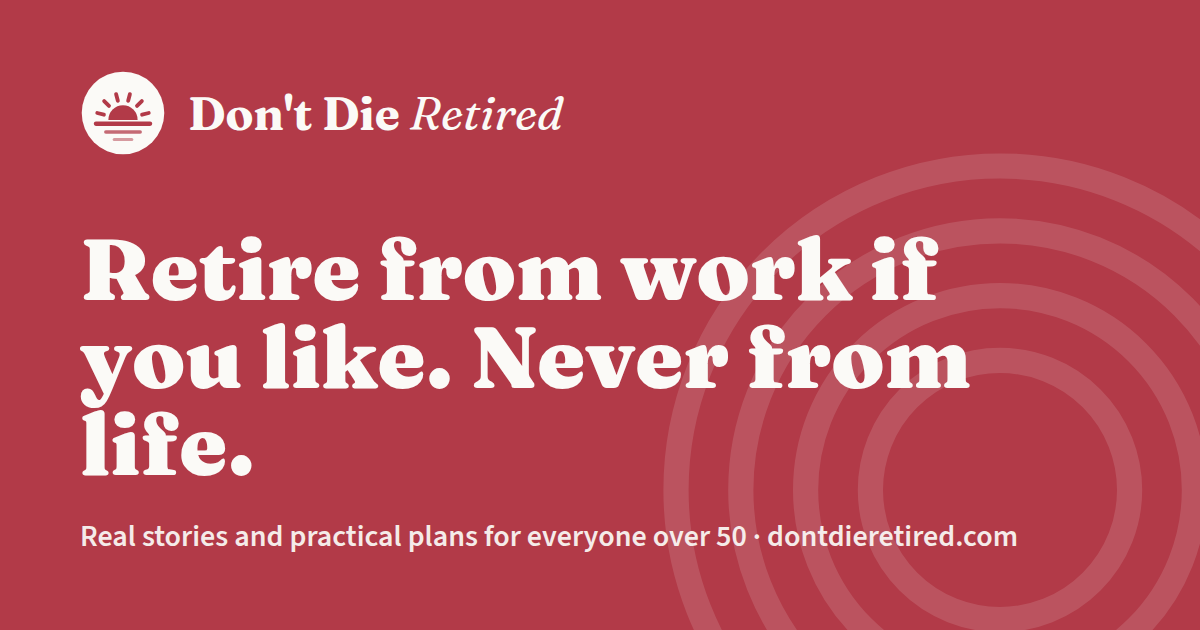
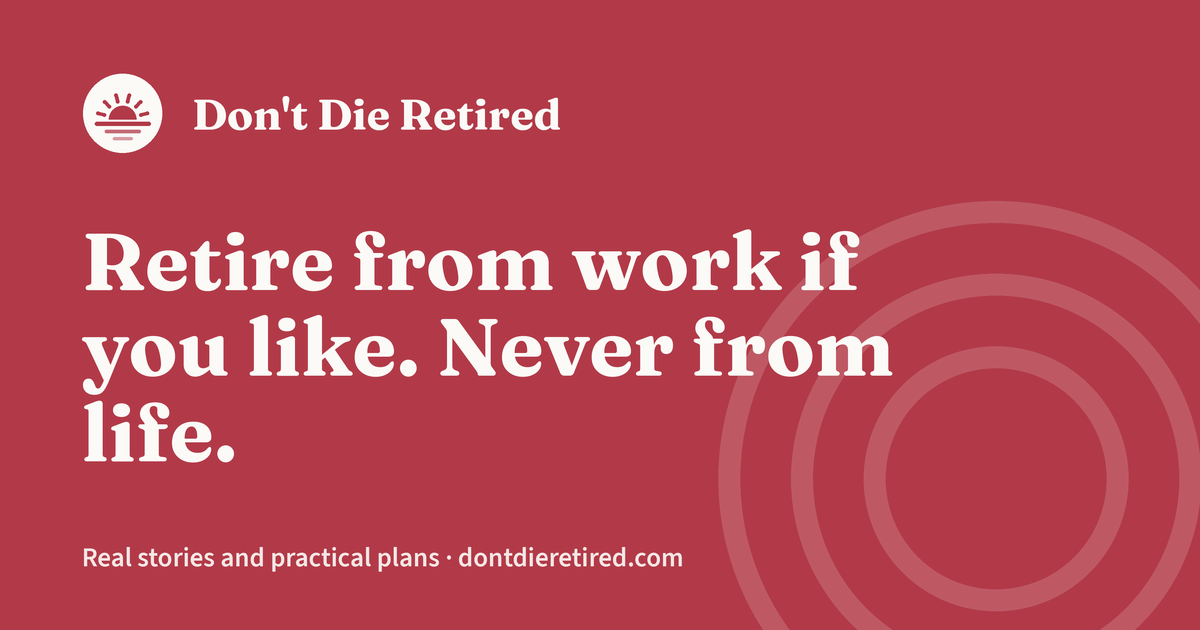
Wordmark: Don't Die Retired in one format, shown in the header at every screen size; About: add Our ethos
- Header, footer and app header: one style for all three words; name no longer hidden on phones
- Phone header becomes two rows so the name, email button and menu all fit
- Logo files and default share image rebuilt in one style (tools/build_logos.py)
- Product PDF renderer follows the same rule for the next rebuild
- About: Our ethos section with a small footer link
- Runbook 1c: name and wordmark rule; footer no longer overflows on small phones

Claude-Session: https://claude.ai/code/session_01Y58vKLSWoeryauwknqvsAi

Changed region(s): [[0.0617, 0.2413, 1.0, 1.0], [0.1542, 0.1508, 0.4933, 0.2111], [0.0617, 0.1508, 0.1233, 0.2413]]

diff --git a/templates/about.html b/templates/about.html
@@ -6,11 +6,20 @@
 <p>Somewhere along the way "retirement" stopped meaning leaving a job and started meaning leaving life: slowing down, doing less, expecting less. We think that's exactly backwards. The years ahead come with more freedom and more time than most of us have had since our twenties. That is not the moment to resign. It is the moment to make the most of it.</p>
 <p>This applies just as much — more, honestly — if you have never been physically or mentally active. You do not need a sporty past or a string of qualifications. You need a first step. The people we write about prove it every day: the swimmer who started at 68, the powerlifter at 62, the doctorate at 80, the surfboard finally ridden at 60.</p>
 <p><strong>Don't Die Retired</strong> finds real stories of people who started late and went far, tells them accurately with links to the original reporting, and turns each one into something small you can try this week.</p>
+<h2 id="ethos">Our ethos</h2>
+<p>Don't Die Retired is one thought: don't spend the years after work doing less. Retirement is leaving a job, not leaving life. Don't retire from life. This is the time to make the most of it.</p>
+<p>Four things we hold to:</p>
+<ul>
+<li><strong>Interested, not old.</strong> Our readers are defined by curiosity and appetite, not by a birthday. We lead with what is interesting, and nobody is too young to be here.</li>
+<li><strong>Do, don't just read.</strong> Every story comes with a way to try it yourself, whether you are starting from nothing or already active and looking for a stretch.</li>
+<li><strong>Invitation, never instruction.</strong> We encourage. We never assume anyone is unfit or in decline, and we never treat activity as a duty.</li>
+<li><strong>Honest and sourced.</strong> Real people, named and linked sources, and evidence behind the advice. We say plainly how the site earns its money, and that it is researched and written with the help of AI, overseen by its human founders.</li>
+</ul>
+<p><strong>What this site is:</strong> real stories told accurately, practical plans and guides that turn each one into something you can start this week, and tools to help you keep going.</p>
+<p><strong>What it is not:</strong> a longevity, life-extension, anti-ageing or medical programme. We sell no supplements, tests or treatments. We are not doctors and nothing here is medical advice: talk to a health professional before starting a new exercise programme, then ask them what you <em>can</em> do.</p>
 <h2>How the site is run</h2>
 <p>This site is researched, written and updated every day with the help of AI, overseen by its human founders. Every story is drawn from a named, linked news source and we quote only what those sources report. If we get something wrong, <a href="mailto:{{ cfg.site.contact_email }}">tell us</a> and we'll fix it quickly.</p>
 <h2>How we make money</h2>
 <p>Advertising, affiliate links (clearly disclosed), our own paid guides and challenges, a members' circle, and occasional clearly-labelled sponsored content. That mix keeps the daily stories free for everyone.</p>
-<h2>What we are not</h2>
-<p>We are not doctors. Nothing here is medical advice. Talk to a health professional before starting a new exercise programme — then ask them what you <em>can</em> do.</p>
 </div>
 {% endblock %}

diff --git a/templates/base.html b/templates/base.html
@@ -31,7 +31,7 @@
 <a class="skip" href="#main">Skip to content</a>
 <header class="site-header">
   <div class="wrap header-inner">
-    <a class="brand" href="/" aria-label="Don't Die Retired — home"><svg class="brand-mark" aria-hidden="true" width="34" height="34" xmlns="http://www.w3.org/2000/svg" viewBox="0 0 100 100"><circle cx="50" cy="50" r="48" fill="#B23A48"/><clipPath id="hdr"><rect width="100" height="58"/></clipPath><circle cx="50" cy="58" r="17" fill="#FBFAF7" clip-path="url(#hdr)"/><g stroke="#FBFAF7" stroke-width="4.5" stroke-linecap="round"><line x1="27.8" y1="52.0" x2="20.1" y2="50.0"/><line x1="33.7" y1="41.7" x2="28.1" y2="36.1"/><line x1="44.0" y1="35.8" x2="42.0" y2="28.1"/><line x1="56.0" y1="35.8" x2="58.0" y2="28.1"/><line x1="66.3" y1="41.7" x2="71.9" y2="36.1"/><line x1="72.2" y1="52.0" x2="79.9" y2="50.0"/></g><rect x="16" y="60" width="68" height="5" rx="2.5" fill="#FBFAF7"/><rect x="28" y="70" width="44" height="4" rx="2" fill="#FBFAF7" opacity=".75"/><rect x="38" y="79" width="24" height="3.5" rx="1.75" fill="#FBFAF7" opacity=".5"/></svg><span>Don't Die <em>Retired</em></span></a>
+    <a class="brand" href="/" aria-label="Don't Die Retired — home"><svg class="brand-mark" aria-hidden="true" width="34" height="34" xmlns="http://www.w3.org/2000/svg" viewBox="0 0 100 100"><circle cx="50" cy="50" r="48" fill="#B23A48"/><clipPath id="hdr"><rect width="100" height="58"/></clipPath><circle cx="50" cy="58" r="17" fill="#FBFAF7" clip-path="url(#hdr)"/><g stroke="#FBFAF7" stroke-width="4.5" stroke-linecap="round"><line x1="27.8" y1="52.0" x2="20.1" y2="50.0"/><line x1="33.7" y1="41.7" x2="28.1" y2="36.1"/><line x1="44.0" y1="35.8" x2="42.0" y2="28.1"/><line x1="56.0" y1="35.8" x2="58.0" y2="28.1"/><line x1="66.3" y1="41.7" x2="71.9" y2="36.1"/><line x1="72.2" y1="52.0" x2="79.9" y2="50.0"/></g><rect x="16" y="60" width="68" height="5" rx="2.5" fill="#FBFAF7"/><rect x="28" y="70" width="44" height="4" rx="2" fill="#FBFAF7" opacity=".75"/><rect x="38" y="79" width="24" height="3.5" rx="1.75" fill="#FBFAF7" opacity=".5"/></svg><span class="brand-name">Don't Die Retired</span></a>
     <nav class="nav" aria-label="Main">
       <details class="topics">
         <summary>Topics</summary>
@@ -72,7 +72,7 @@
 <footer class="site-footer">
   <div class="wrap footer-grid">
     <div>
-      <p class="brand-foot"><img src="/static/logo-mark.svg" alt="" width="30" height="30"> Don't Die <em>Retired</em></p>
+      <p class="brand-foot"><img src="/static/logo-mark.svg" alt="" width="30" height="30"> <span class="brand-name">Don't Die Retired</span></p>
       <p>{{ cfg.site.tagline }}</p>
       <p class="social">
         {% for k, v in cfg.social.items() if k != 'scheduler' and v %}<a href="{{ v }}" rel="me noopener" target="_blank">{{ k|capitalize }}</a>{% endfor %}
@@ -94,6 +94,7 @@
     <div>
       <h4>About</h4>
       <a href="/about/">About &amp; how this site is run</a>
+      <a href="/about/#ethos">Our ethos</a>
       <a href="/privacy/">Privacy &amp; cookies</a>
       <a href="mailto:{{ cfg.site.contact_email }}">Contact</a>
       <button class="linklike" data-open-segments>Change my profile</button>

diff --git a/products/build_pdf.js b/products/build_pdf.js
@@ -114,7 +114,7 @@ h1{font-family:Fr;font-weight:900;font-size:58pt;line-height:.98;margin:8mm 0 7m
 <svg class="sun" viewBox="0 0 210 120" preserveAspectRatio="xMidYMax meet"><g stroke="#F2B45A" stroke-opacity=".38" stroke-width="4.2" stroke-linecap="round">${[150, 122, 94, 66, 38, 12].map(a => { const t = a * Math.PI / 180, cx = 164, cy = 126, r1 = 62, r2 = 86;
   return `<line x1="${(cx + r1 * Math.cos(t)).toFixed(1)}" y1="${(cy - r1 * Math.sin(t)).toFixed(1)}" x2="${(cx + r2 * Math.cos(t)).toFixed(1)}" y2="${(cy - r2 * Math.sin(t)).toFixed(1)}"/>`; }).join('')}</g><circle cx="164" cy="126" r="54" fill="#FFFDF9" fill-opacity=".12"/><circle cx="164" cy="126" r="50" fill="#F2B45A"/></svg>
 <div class="big">${esc(T.big)}</div>
-<div class="brand">${MARK('#FFFDF9', T.c)}<span>Don't Die <i>Retired</i></span></div>
+<div class="brand">${MARK('#FFFDF9', T.c)}<span>Don't Die Retired</span></div>
 <div class="pill">${esc(C.kind)}</div>
 <h1>${esc(C.title)}</h1>
 <div class="sub">${esc(C.subtitle)}</div>
@@ -226,7 +226,7 @@ ${bodyHtml}
   ${MY ? `<div class="upgrade"><div class="up-l"><div class="kick" style="color:var(--acc)">Your purchase counts in full</div><h3 class="up-h">Get the other eight plans for £${MY.upgrade}</h3><p>You've paid £${MY.paid} for this plan. We take that off the Everything bundle, so the rest of the shelf, worth £${MY.others_value} bought separately, is yours for <b>£${MY.upgrade}</b>. You'll also get every new plan we publish for a year.</p><p class="up-small">Bought more than one plan? Reply to your receipt and we'll credit everything you've paid.</p></div><a class="up-r" href="${MY.url}"><div class="up-price">£${MY.upgrade}</div><div class="up-was">instead of £${UP.bundle_price}</div><div class="up-link">${esc(MY.url.replace('https://', ''))}</div><div class="up-code">or use code <b>${MY.code}</b></div></a></div>` : ''}
   <div class="kick" style="margin-top:8mm">More from the shelf</div>
   <div class="shelf">${OTHERS.filter(o => o[0] !== C.title).slice(0, 6).map(o => `<div><b>${esc(o[0])}</b><span>${esc(o[1])}</span></div>`).join('')}</div>
-  <div class="sign">${MARK(T.c, '#FFFDF9')}<div><b>Don't Die <i>Retired</i></b><span>Retire from work if you like. Never from life. · dontdieretired.com · hello@dontdieretired.com</span></div></div>
+  <div class="sign">${MARK(T.c, '#FFFDF9')}<div><b>Don't Die Retired</b><span>Retire from work if you like. Never from life. · dontdieretired.com · hello@dontdieretired.com</span></div></div>
 </section>
 </body></html>`;
 

diff --git a/static/style.css b/static/style.css
@@ -122,7 +122,7 @@ em{color:var(--brand)}
 .brand-foot{font-family:var(--serif);font-weight:700;font-size:1.3rem;margin:0}
 .social a{display:inline-block;margin-right:12px}
 .footnote{margin-top:28px;color:var(--muted);font-size:.8rem}
-@media (max-width:820px){.footer-grid{grid-template-columns:1fr 1fr}}
+@media (max-width:820px){.footer-grid{grid-template-columns:1fr 1fr}.footer-grid>div{min-width:0}.footer-grid>div:first-child{grid-column:1/-1}}
 
 /* videos */
 .video-grid{display:grid;gap:24px}.video-grid-2{grid-template-columns:repeat(2,1fr)}
@@ -202,10 +202,21 @@ body[data-region=us] .tier .price::after{content:""}
 @media (max-width:820px){
   .nav{display:flex!important;gap:14px;flex:1;justify-content:flex-end}
   .hide-sm{display:none!important}.show-sm{display:inline}
-  .brand span{font-size:1.1rem}
+  .brand{font-size:1.15rem}
   .topics .dd{position:fixed;left:12px;right:12px;top:70px;width:auto;grid-template-columns:1fr}
 }
-@media (max-width:480px){.brand span{display:none}}
+/* The name is always shown beside the mark, in one style (RUNBOOK §1c). On phones the header
+   becomes two rows (name and email button, then the menu) so nothing has to be hidden. */
+.brand-name{white-space:nowrap;font-style:normal;color:inherit}
+@media (max-width:560px){
+  .header-inner{flex-wrap:wrap;gap:4px 10px;min-height:0;padding-top:9px;padding-bottom:5px}
+  .brand{font-size:clamp(16px,5vw,21px);gap:7px}
+  .brand-mark{width:28px;height:28px}
+  .header-cta{margin-left:auto;gap:8px}
+  .header-cta .btn{padding:5px 10px}
+  .nav{order:3;flex:1 0 100%!important;justify-content:flex-start!important;gap:20px}
+  .topics .dd{top:98px}
+}
 
 .bundle-value{font-size:1.05rem}.bundle-value s{color:var(--muted)}
 .bundle-promise{background:#fff6e8;border-radius:10px;padding:10px 14px}

diff --git a/app/index.html b/app/index.html
@@ -18,7 +18,7 @@
 <header class="bar">
   <a href="#/" class="brand" aria-label="Today">
     <svg viewBox="0 0 100 100" width="30" height="30" aria-hidden="true"><circle cx="50" cy="50" r="48" fill="#B23A48"/><clipPath id="c"><rect width="100" height="58"/></clipPath><circle cx="50" cy="58" r="17" fill="#FBFAF7" clip-path="url(#c)"/><g stroke="#FBFAF7" stroke-width="4.5" stroke-linecap="round"><line x1="27.8" y1="52" x2="20.1" y2="50"/><line x1="33.7" y1="41.7" x2="28.1" y2="36.1"/><line x1="44" y1="35.8" x2="42" y2="28.1"/><line x1="56" y1="35.8" x2="58" y2="28.1"/><line x1="66.3" y1="41.7" x2="71.9" y2="36.1"/><line x1="72.2" y1="52" x2="79.9" y2="50"/></g><rect x="16" y="60" width="68" height="5" rx="2.5" fill="#FBFAF7"/><rect x="28" y="70" width="44" height="4" rx="2" fill="#FBFAF7" opacity=".75"/><rect x="38" y="79" width="24" height="3.5" rx="1.75" fill="#FBFAF7" opacity=".5"/></svg>
-    <span>Don't Die <em>Retired</em></span>
+    <span class="brand-name">Don't Die Retired</span>
   </a>
   <button class="textsize" data-action="textsize" aria-label="Change text size">A<span>A</span></button>
 </header>

diff --git a/app/app.css b/app/app.css
@@ -15,7 +15,8 @@ em{color:var(--brand)}
 a{color:inherit}
 button{font:inherit;color:inherit}
 .bar{position:sticky;top:0;z-index:10;display:flex;justify-content:space-between;align-items:center;padding:calc(10px + env(safe-area-inset-top)) 18px 10px;background:rgba(251,250,247,.94);backdrop-filter:blur(8px);border-bottom:1px solid var(--line)}
-.brand{display:flex;align-items:center;gap:9px;text-decoration:none;font-family:Fr;font-weight:700;font-size:.95em}
+.brand{display:flex;align-items:center;gap:9px;text-decoration:none;font-family:Fr;font-weight:700;font-size:clamp(16px,.95em,1.2em);min-width:0}
+.brand-name{white-space:nowrap;font-style:normal;color:inherit}
 .textsize{border:1.5px solid var(--line);background:#fff;border-radius:12px;min-width:52px;height:44px;font-family:Fr;font-weight:700;font-size:.8em}
 .textsize span{font-size:1.3em}
 main{max-width:640px;margin:0 auto;padding:18px 18px 30px;outline:none}

diff --git a/app/sw.js b/app/sw.js
@@ -1,5 +1,5 @@
 // Offline support: app shell cached; data refreshed when online.
-const V = 'ddr-app-v2';
+const V = 'ddr-app-v3';
 const SHELL = ['/app/', '/app/index.html', '/app/app.css', '/app/app.js', '/app/data.json', '/app/manifest.webmanifest', '/app/icons/icon-192.png', '/static/favicon.svg',
   '/app/fonts/fraunces-latin-700-normal.woff2', '/app/fonts/fraunces-latin-900-normal.woff2', '/app/fonts/fraunces-latin-400-italic.woff2',
   '/app/fonts/source-sans-3-latin-400-normal.woff2', '/app/fonts/source-sans-3-latin-600-normal.woff2', '/app/fonts/source-sans-3-latin-700-normal.woff2'];

diff --git a/tools/build_logos.py b/tools/build_logos.py
@@ -1,0 +1,105 @@
+#!/usr/bin/env python3
+"""Rebuild the brand files that carry the wordmark.
+
+    python tools/build_logos.py
+
+Writes brand/logo-horizontal-light.png, brand/logo-horizontal-dark.png,
+brand/og-default.png and static/og-default.png.
+
+The rule (RUNBOOK §1c): "Don't Die Retired" is one phrase in one style. All three
+words share the same typeface, weight, upright style and colour. The red lives in
+the sunrise mark, never on a word.
+"""
+from pathlib import Path
+from PIL import Image, ImageDraw, ImageFont
+
+ROOT = Path(__file__).resolve().parent.parent
+FONTS = ROOT / "brand" / "fonts"
+BOLD = str(FONTS / "Fraunces-Bold.ttf")
+SANS = str(FONTS / "SourceSans3-SemiBold.ttf")
+NAME = "Don't Die Retired"
+RED, PAPER, INK = "#B23A48", "#FBFAF7", "#1B1B1F"
+S = 3  # supersample
+
+
+def _blend(a, b, t):
+    a = [int(a[i:i + 2], 16) for i in (1, 3, 5)]
+    b = [int(b[i:i + 2], 16) for i in (1, 3, 5)]
+    return tuple(round(x + (y - x) * t) for x, y in zip(a, b))
+
+
+def draw_mark(d, x, y, size, disc=RED, fg=PAPER):
+    """The sunrise mark from brand/logo-mark.svg, drawn into a size x size box at (x, y)."""
+    u = size / 100
+    P = lambda px, py: (x + px * u, y + py * u)
+    d.ellipse([*P(2, 2), *P(98, 98)], fill=disc)
+    # half sun: full circle, then cover the lower half with the disc colour
+    d.ellipse([*P(33, 41), *P(67, 75)], fill=fg)
+    d.rectangle([*P(30, 58), *P(70, 77)], fill=disc)
+    rays = [(27.8, 52.0, 20.1, 50.0), (33.7, 41.7, 28.1, 36.1), (44.0, 35.8, 42.0, 28.1),
+            (56.0, 35.8, 58.0, 28.1), (66.3, 41.7, 71.9, 36.1), (72.2, 52.0, 79.9, 50.0)]
+    w = 4.5 * u
+    for x1, y1, x2, y2 in rays:
+        d.line([P(x1, y1), P(x2, y2)], fill=fg, width=round(w))
+        for px, py in ((x1, y1), (x2, y2)):
+            cx, cy = P(px, py)
+            d.ellipse([cx - w / 2, cy - w / 2, cx + w / 2, cy + w / 2], fill=fg)
+    d.rounded_rectangle([*P(16, 60), *P(84, 65)], radius=2.5 * u, fill=fg)
+    d.rounded_rectangle([*P(28, 70), *P(72, 74)], radius=2 * u, fill=_blend(disc, fg, .75))
+    d.rounded_rectangle([*P(38, 79), *P(62, 82.5)], radius=1.75 * u, fill=_blend(disc, fg, .5))
+
+
+def horizontal(out, bg, ink, size=(1400, 360)):
+    W, H = size[0] * S, size[1] * S
+    im = Image.new("RGB", (W, H), bg)
+    d = ImageDraw.Draw(im)
+    mark = round(H * 0.60)
+    gap = round(H * 0.15)
+    # largest type that keeps the whole name on one line inside the margins
+    margin = round(H * 0.235)
+    pt = round(H * 0.42)
+    while True:
+        f = ImageFont.truetype(BOLD, pt)
+        l, t, r, b = d.textbbox((0, 0), NAME, font=f)
+        if mark + gap + (r - l) <= W - 2 * margin:
+            break
+        pt -= 2
+    total = mark + gap + (r - l)
+    x0 = (W - total) // 2
+    draw_mark(d, x0, (H - mark) // 2, mark)
+    d.text((x0 + mark + gap - l, (H - (b - t)) // 2 - t), NAME, font=f, fill=ink)
+    im.resize(size, Image.LANCZOS).save(out, optimize=True)
+
+
+def og(out, size=(1200, 630)):
+    W, H = size[0] * S, size[1] * S
+    im = Image.new("RGB", (W, H), RED)
+    d = ImageDraw.Draw(im)
+    # quiet rings, lower right
+    cx, cy = round(W * 0.83), round(H * 0.76)
+    for i, rad in enumerate((0.42, 0.31, 0.20)):
+        rr = round(H * rad * 1.05)
+        d.ellipse([cx - rr, cy - rr, cx + rr, cy + rr], outline=_blend(RED, PAPER, .16), width=round(H * 0.035))
+    pad = round(W * 0.068)
+    mark = round(H * 0.13)
+    draw_mark(d, pad, round(H * 0.115), mark, disc=PAPER, fg=RED)
+    f = ImageFont.truetype(BOLD, round(H * 0.068))
+    l, t, r, b = d.textbbox((0, 0), NAME, font=f)
+    d.text((pad + mark + round(H * 0.045) - l, round(H * 0.115) + (mark - (b - t)) // 2 - t), NAME, font=f, fill=PAPER)
+    hf = ImageFont.truetype(BOLD, round(H * 0.128))
+    y = round(H * 0.335)
+    for line in ("Retire from work if", "you like. Never from", "life."):
+        d.text((pad, y), line, font=hf, fill=PAPER)
+        y += round(hf.size * 1.06)
+    sf = ImageFont.truetype(SANS, round(H * 0.043))
+    d.text((pad, round(H * 0.855)), "Real stories and practical plans · dontdieretired.com", font=sf, fill=_blend(RED, PAPER, .9))
+    im = im.resize(size, Image.LANCZOS)
+    for o in out:
+        im.save(o, optimize=True)
+
+
+if __name__ == "__main__":
+    horizontal(ROOT / "brand" / "logo-horizontal-light.png", PAPER, INK)
+    horizontal(ROOT / "brand" / "logo-horizontal-dark.png", INK, PAPER)
+    og([ROOT / "brand" / "og-default.png", ROOT / "static" / "og-default.png"])
+    print("logos rebuilt")

diff --git a/RUNBOOK.md b/RUNBOOK.md
@@ -14,6 +14,14 @@ A static site for over-50s, encouraging physical and mental activity, run by AI 
 
 **Prose.** Short paragraphs, one idea per sentence, specific numbers over adjectives. Quotes carry the story; attribute with "said" or "told [outlet]", never "enthused", "beamed", "quipped". No rhetorical questions in the first half. Second person only in the practical section and the Try-this box. Cut clichés on sight: "age is just a number", "proving that…", "inspirational", "journey", "incredible". The tone is a well-edited newspaper feature: warm because the facts are, not because the adjectives are.
 
+### 1c. Name and wordmark (set 6 Oct 2026)
+- **One phrase, one style.** The name is always "Don't Die Retired" in full, with all three words in the same typeface, weight, upright style and colour (the bold serif in dark ink on light, light on dark). The red belongs to the sunrise mark, never to a word. Never italicise, colour or otherwise pick out one or two of the words, and never break a line as "Don't Die" / "Retired".
+- **Never "Don't Die" alone**: not as a heading, label, hashtag, abbreviation, image text or social handle. Where a short form is needed, use "DDR" or the mark alone.
+- **Always visible.** The full name sits beside the mark in the website header and the app header at every screen width, including small phones. Make it fit by shrinking the type or re-arranging the header, never by hiding it.
+- **Files.** `python tools/build_logos.py` rebuilds `brand/logo-horizontal-light.png`, `brand/logo-horizontal-dark.png` and both copies of `og-default.png`. The website header and footer use the `.brand-name` class; the app header matches. Product PDFs and Gumroad covers take the name from `products/build_pdf.js`.
+- **What the site is about.** Activity, purpose and making the most of life. Articles, guides, products and affiliate links stay out of longevity, life-extension, anti-ageing, supplements and medical testing, so that the statement in "Our ethos" (About page) stays true. No page names, links to or compares the site with another brand, person or movement in order to describe itself.
+- **"Our ethos"** lives on the About page (`/about/#ethos`) with one small footer link. It is meant to be available, not prominent: do not add it to the main menu, the home page, Start here, articles or the app unless Robin asks.
+
 Repo layout: `site.yaml` (config), `content/articles/*.md`, `content/videos.yaml`, `content/products.yaml`, `templates/`, `static/`, `build.py` → `dist/`; `social/` gets a post pack per article.
 
 ## 1b. Who we write for (set 2 Oct 2026 — read before choosing a story)
